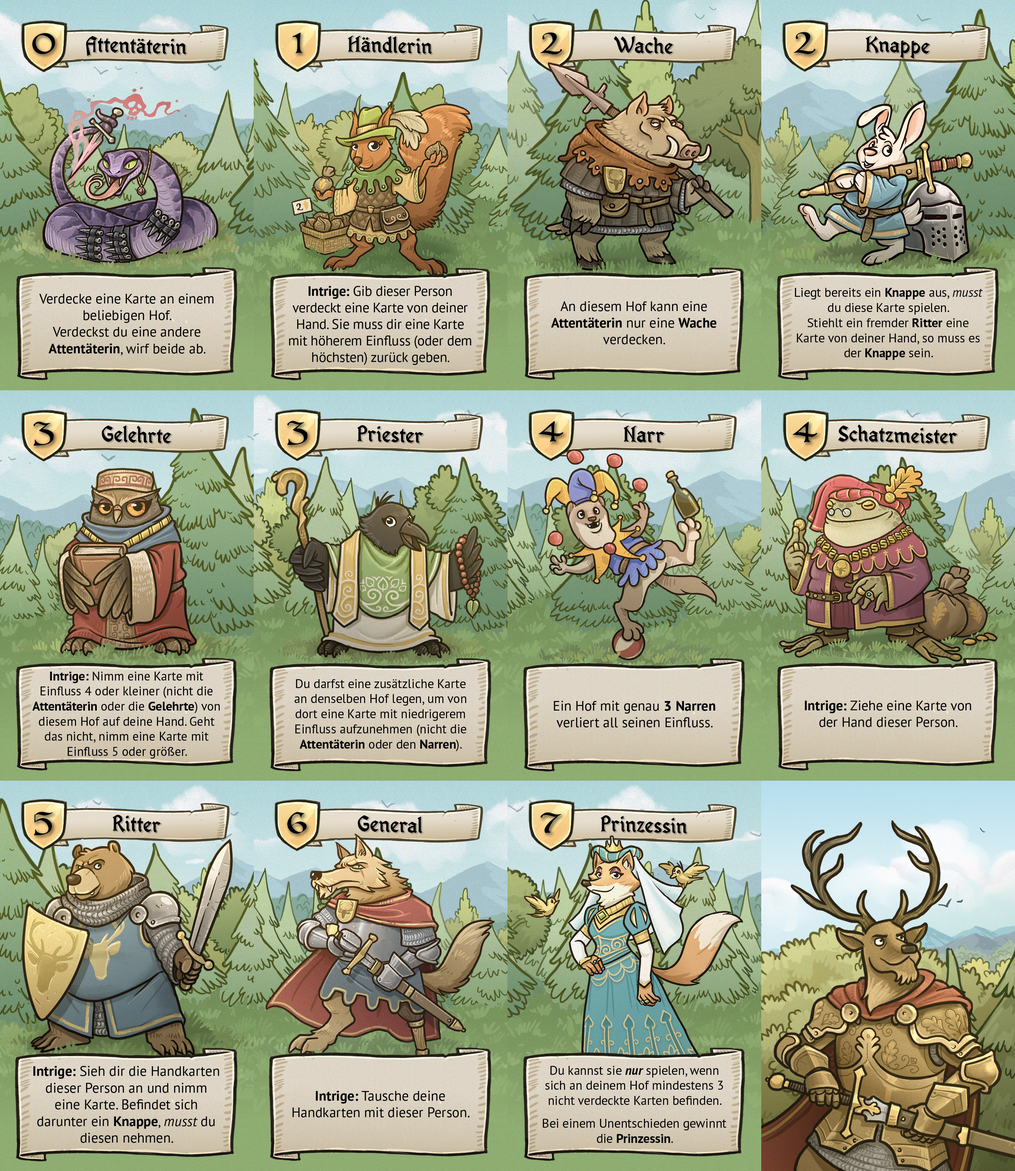
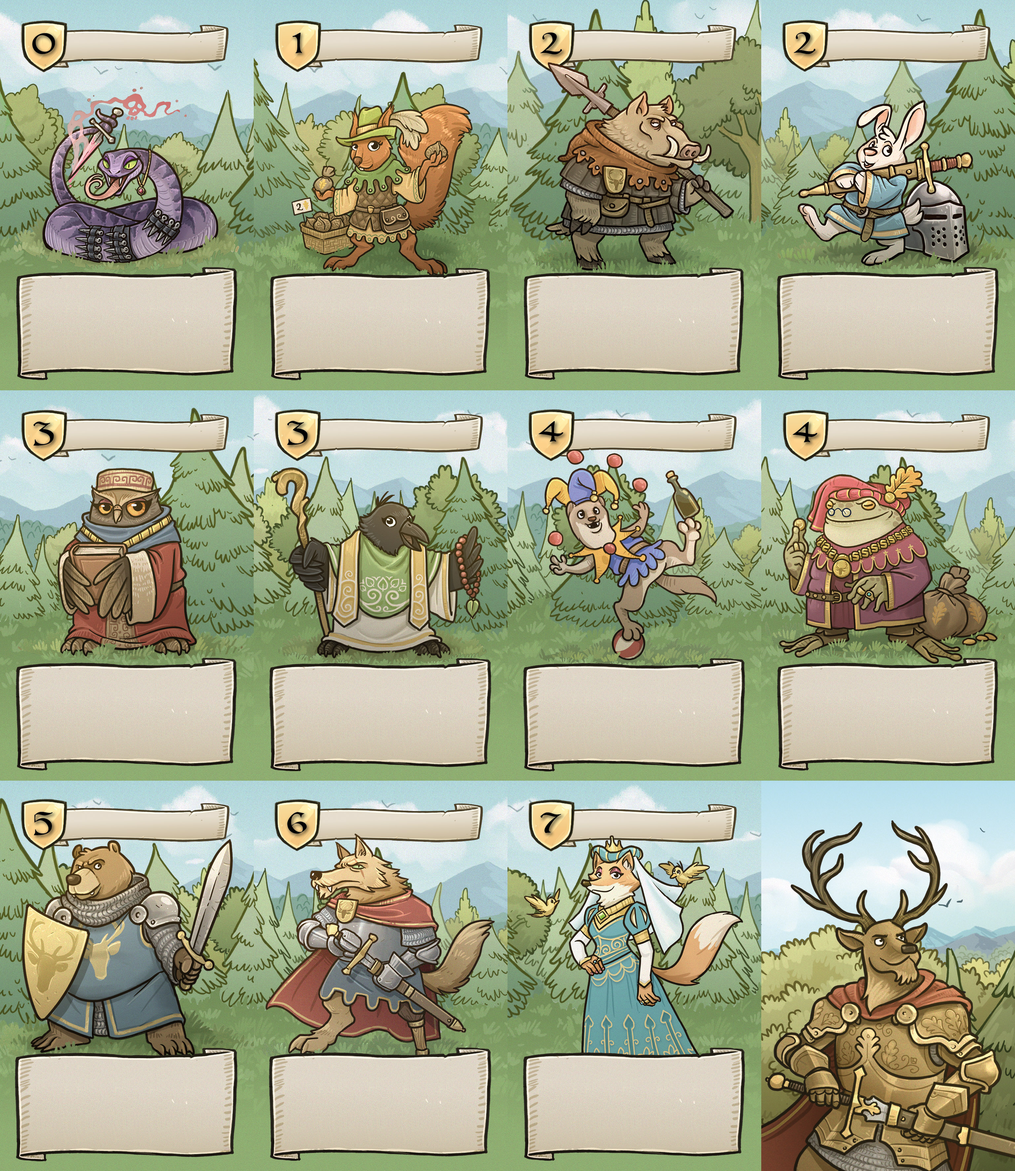
Descriptions 01

diff --git a/kingofwoods.js b/kingofwoods.js
@@ -266,67 +266,67 @@ function (dojo, declare) {
                     'type' : 1,
                     'name' : _('Assassin'),
                     'influence' : 0,
-                    'text' : _("Cover 1 card at any court. If you cover another Assassin, discard both."),
+                    'text' : _("Cover 1 card at any court. If you cover another <b>Assassin</b>, discard both."),
                 },
                 'Trader': {
                     'type' : 2,
                     'name' : _('Trader'),
                     'influence' : 1,
-                    'text' : _("Intrigue: Give this player facedown 1 card from your hand. They have to return 1 card with higher influence (or the highest)."),
+                    'text' : _("<b>Intrigue:</b> Give this player facedown 1 card from your hand. They have to return 1 card with higher influence (or the highest)."),
                 },
                 'Guard': {
                     'type' : 3,
                     'name' : _('Guard'),
                     'influence' : 2,
-                    'text' : _("At this court, an Assassin can only cover a Guard."),
+                    'text' : _("At this court, an <b>Assassin</b> can only cover a <b>Guard</b>."),
                 },
                 'Squire': {
                     'type' : 4,
                     'name' : _('Squire'),
                     'influence' : 2,
-                    'text' : _("If there is already a Squire at any court, you have to play this card. If another player‘s Knight steals a card from your hand, it has to be the Squire."),
+                    'text' : _("If there is already a <b>Squire</b> at any court, you have to play this card. If another player‘s <b>Knight</b> steals a card from your hand, it has to be the <b>Squire</b>."),
                 },
                 'Scholar': {
                     'type' : 5,
                     'name' : _('Scholar'),
                     'influence' : 3,
-                    'text' : _("Intrigue: Take a card with influence 4 or smaller (not the Assassin or the Scholar) from this court to your hand. If not possible, take a card with influence 5 or greater."),
+                    'text' : _("<b>Intrigue:</b> Take a card with influence 4 or smaller (not the <b>Assassin</b> or the <b>Scholar</b>) from this court to your hand. If not possible, take a card with influence 5 or greater."),
                 },
                 'Priest': {
                     'type' : 6,
                     'name' : _('Priest'),
                     'influence' : 3,
-                    'text' : _("You may put an additional card to the same court in order to take 1 card with lower influence from there to your hand (not the Assassin or the Jester)."),
+                    'text' : _("You may put an additional card to the same court in order to take 1 card with lower influence from there to your hand (not the <b>Assassin</b> or the <b>Jester</b>)."),
                 },
                 'Jester': {
                     'type' : 7,
                     'name' : _('Jester'),
                     'influence' : 4,
-                    'text' : _("A court with exactly 3 Jesters has no influence at all."),
+                    'text' : _("A court with exactly <b>3 Jesters</b> has no influence at all."),
                 },
                 'Treasurer': {
                     'type' : 8,
                     'name' : _('Treasurer'),
                     'influence' : 4,
-                    'text' : _("Intrigue: Draw 1 card from this player‘s hand."),
+                    'text' : _("<b>Intrigue:</b> Draw 1 card from this player‘s hand."),
                 },
                 'Knight': {
                     'type' : 9,
                     'name' : _('Knight'),
                     'influence' : 5,
-                    'text' : _("Intrigue: Look at this person‘s hand cards and take 1. If there is a Squire among the cards, you have to take him."),
+                    'text' : _("<b>Intrigue:</b> Look at this person‘s hand cards and take 1. If there is a <b>Squire</b> among the cards, you have to take him."),
                 },
                 'General': {
                     'type' : 10,
                     'name' : _('General'),
                     'influence' : 6,
-                    'text' : _("Intrigue: Exchange your hand cards with this player."),
+                    'text' : _("<b>Intrigue:</b> Exchange your hand cards with this player."),
                 },
                 'Princess': {
                     'type' : 11,
                     'name' : _('Princess'),
                     'influence' : 7,
-                    'text' : _("You can only play her if there are at least 3 uncovered cards at your court. The Princess always breaks ties in her favour."),
+                    'text' : _("You can <b>only</b> play her if there are at least 3 uncovered cards at your court. The <b>Princess</b> always breaks ties in her favour."),
                 },
                 'Backside': {
                     'type' : 12,
@@ -386,16 +386,36 @@ function (dojo, declare) {
                     this.addTooltip(itemDiv.id, tooltipHTML);
 
                     //add Card-Names
-                    // if (cardType != 'Backside') {
-                    //     const textDiv = document.createElement('div');
-                    //     textDiv.className = 'card-text';
-                    //     textDiv.innerHTML = cardInformation[cardType].name;
-                    //     itemDiv.appendChild(textDiv);
-                    // }
+                    if (cardType != 'Backside') {
+                        // Name
+                        const nameDiv = document.createElement('div');
+                        nameDiv.className = 'card-text';
+                        nameDiv.innerHTML = cardInformation[cardType].name;
+                        itemDiv.appendChild(nameDiv);
+
+                        // Description
+                        const descDiv = document.createElement('div');
+                        descDiv.className = 'card-description';
+                        descDiv.innerHTML = cardInformation[cardType].text;
+                        itemDiv.appendChild(descDiv);
+
+                        // Auto-size text
+                        this.adjustTextSize(descDiv);
+                    }
 
                 }
             };
 
+        },
+
+        adjustTextSize: function(element) {
+            const maxHeight = element.offsetHeight;
+            let fontSize = parseInt(window.getComputedStyle(element).fontSize);
+            
+            while (element.scrollHeight > maxHeight && fontSize > 8) {
+                fontSize--;
+                element.style.fontSize = `${fontSize}px`;
+            }
         },
 
         updateCardDisplay: function(cards) {

diff --git a/kingofwoods.css b/kingofwoods.css
@@ -126,6 +126,24 @@
     padding: 0 8px;
   }
 
+  .card-description {
+    position: absolute;
+    top: 71%; /* Adjust based on your sprite's text box position */
+    left: 8%;
+    width: 83%;
+    height: 23%; /* Match the invisible box height in your sprite */
+    font-size: 10px; /* Base size for English */
+    line-height: 1.2;
+    overflow: hidden;
+    pointer-events: none;
+    display: flex;
+    align-items: center;
+    justify-content: center;
+    padding: 2%;
+    text-align: center;
+    box-sizing: border-box;
+}
+
 .assassin-overlay {
     position: absolute;
     z-index: 2;
